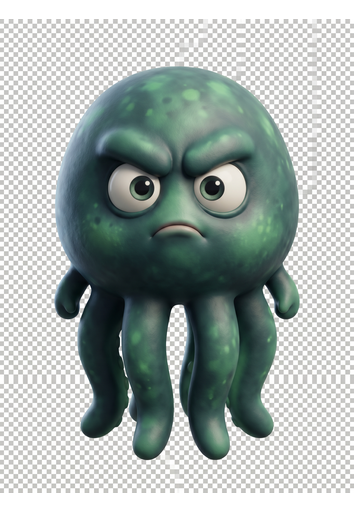
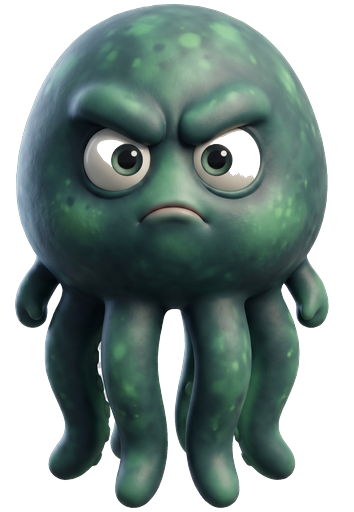
v23k: fix Inky Bin PNG checkerboard bleed (clean edges)

diff --git a/sw.js b/sw.js
@@ -1,6 +1,6 @@
 // Horridors — Service Worker (offline cache)
 // Cache-first strategy for static assets. Bump CACHE_VERSION on any meaningful change.
-const CACHE_VERSION = 'horridors-v23j-l5-thistle-fix';
+const CACHE_VERSION = 'horridors-v23k-inkybin-checker-fix';
 const ASSETS = [
   './',
   './index.html',
